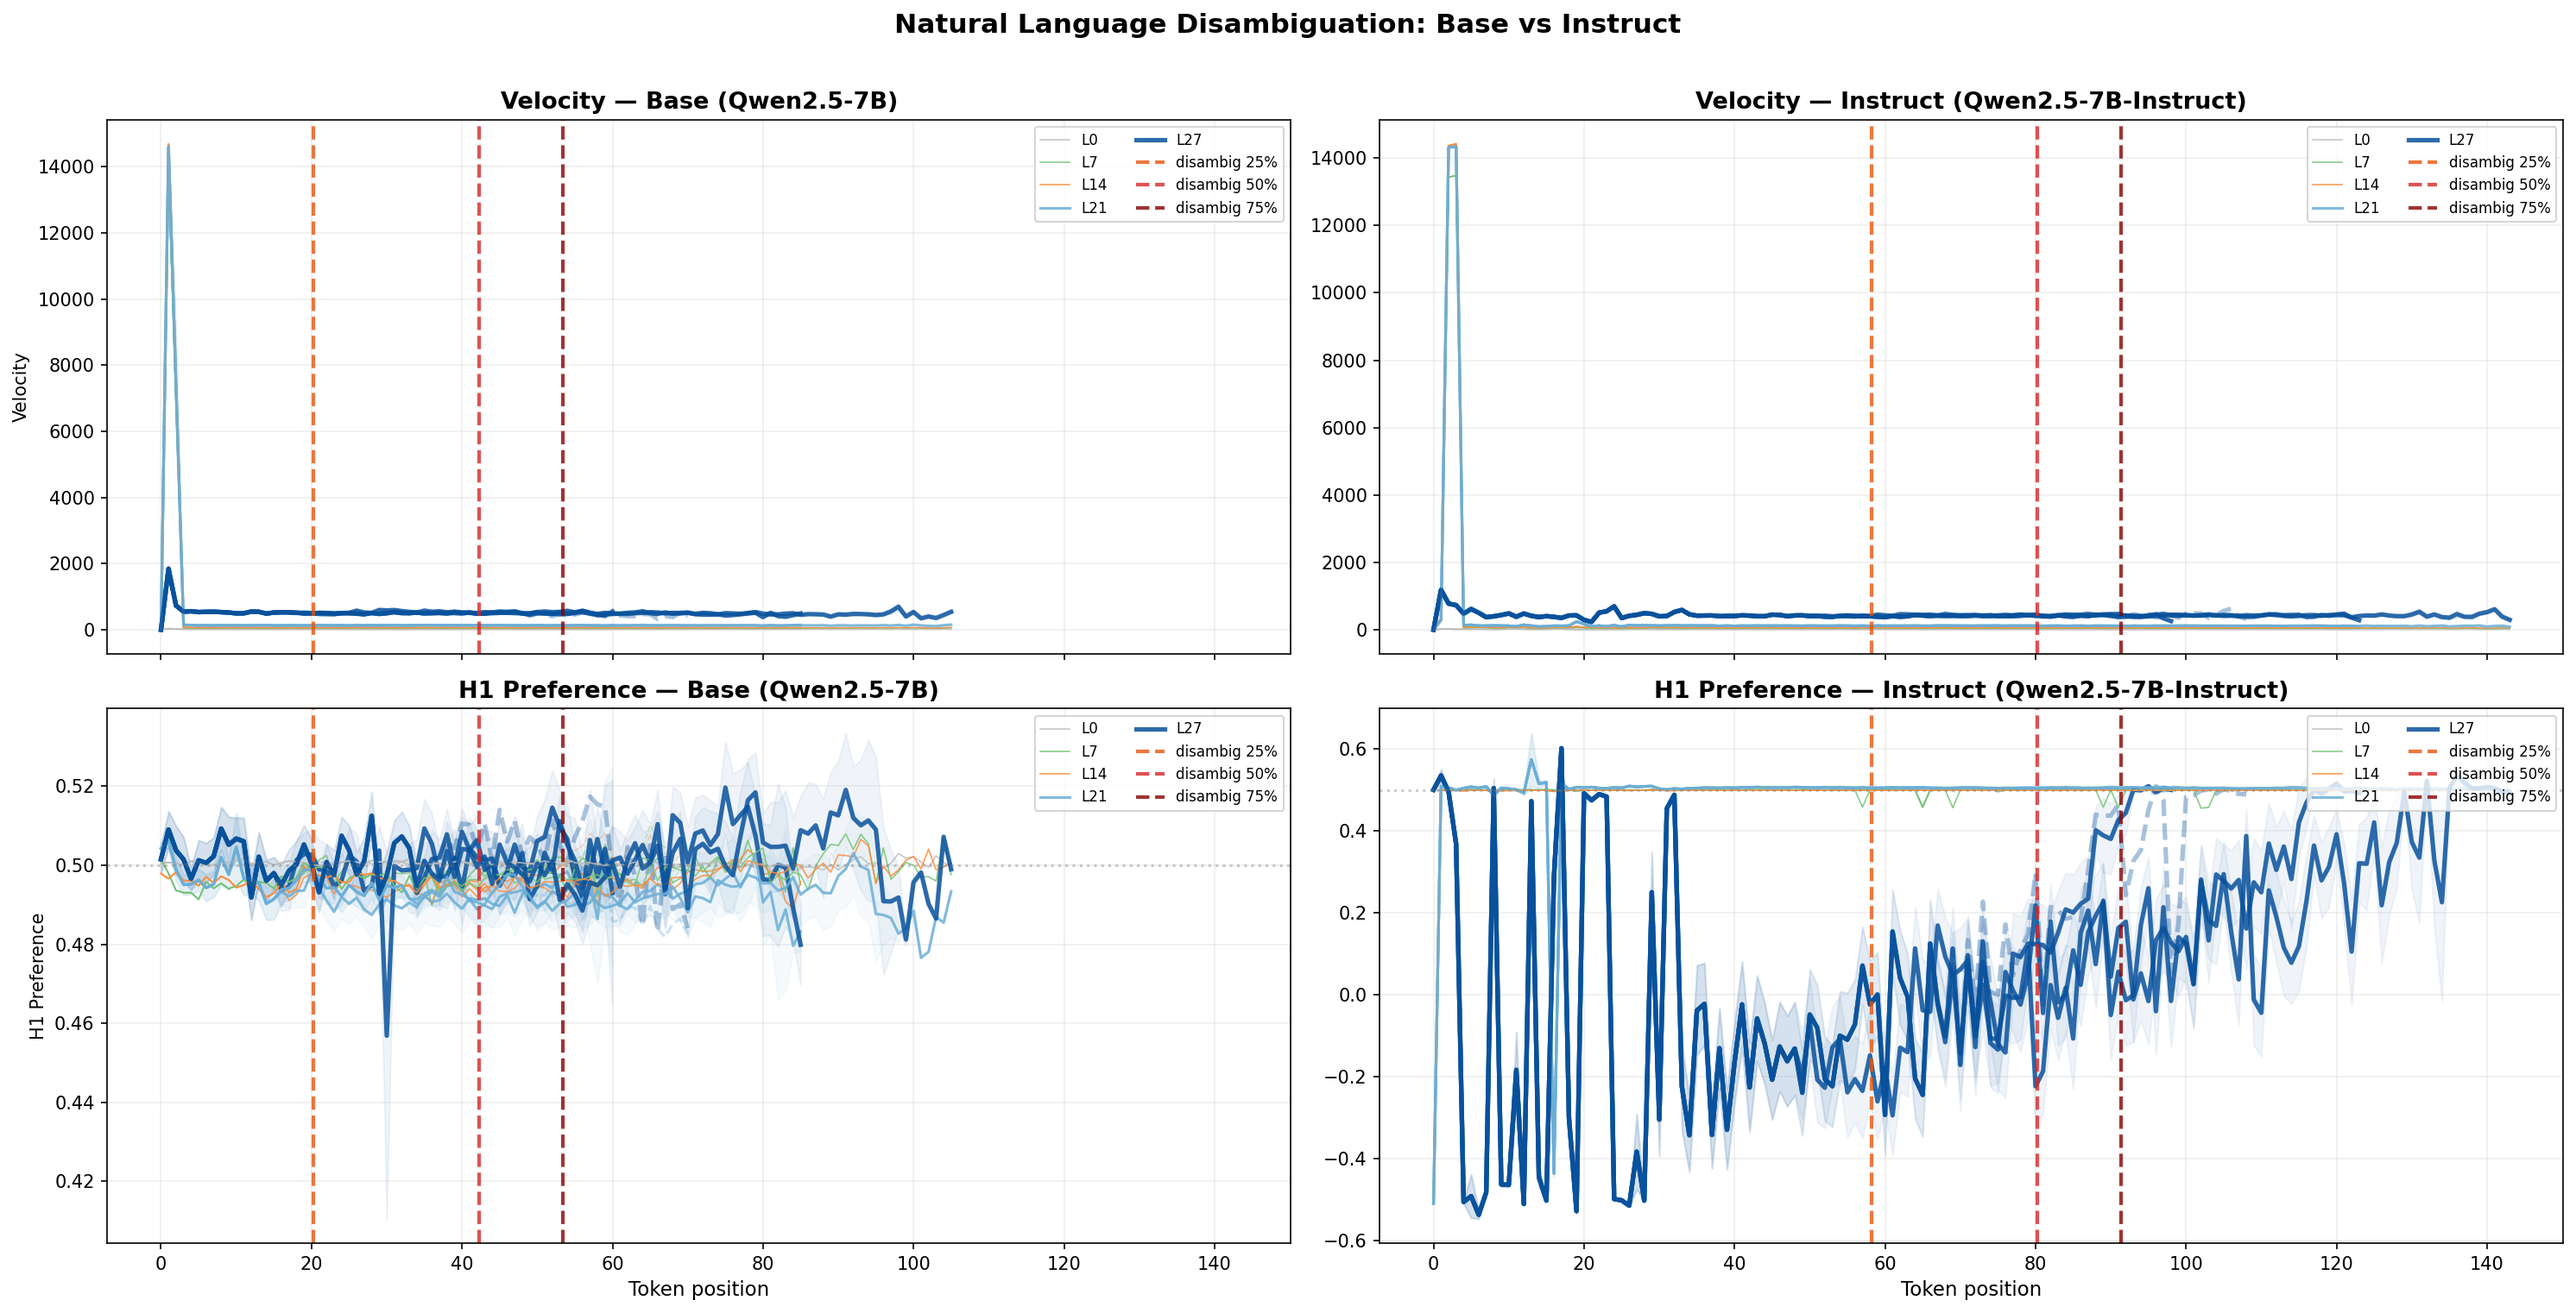
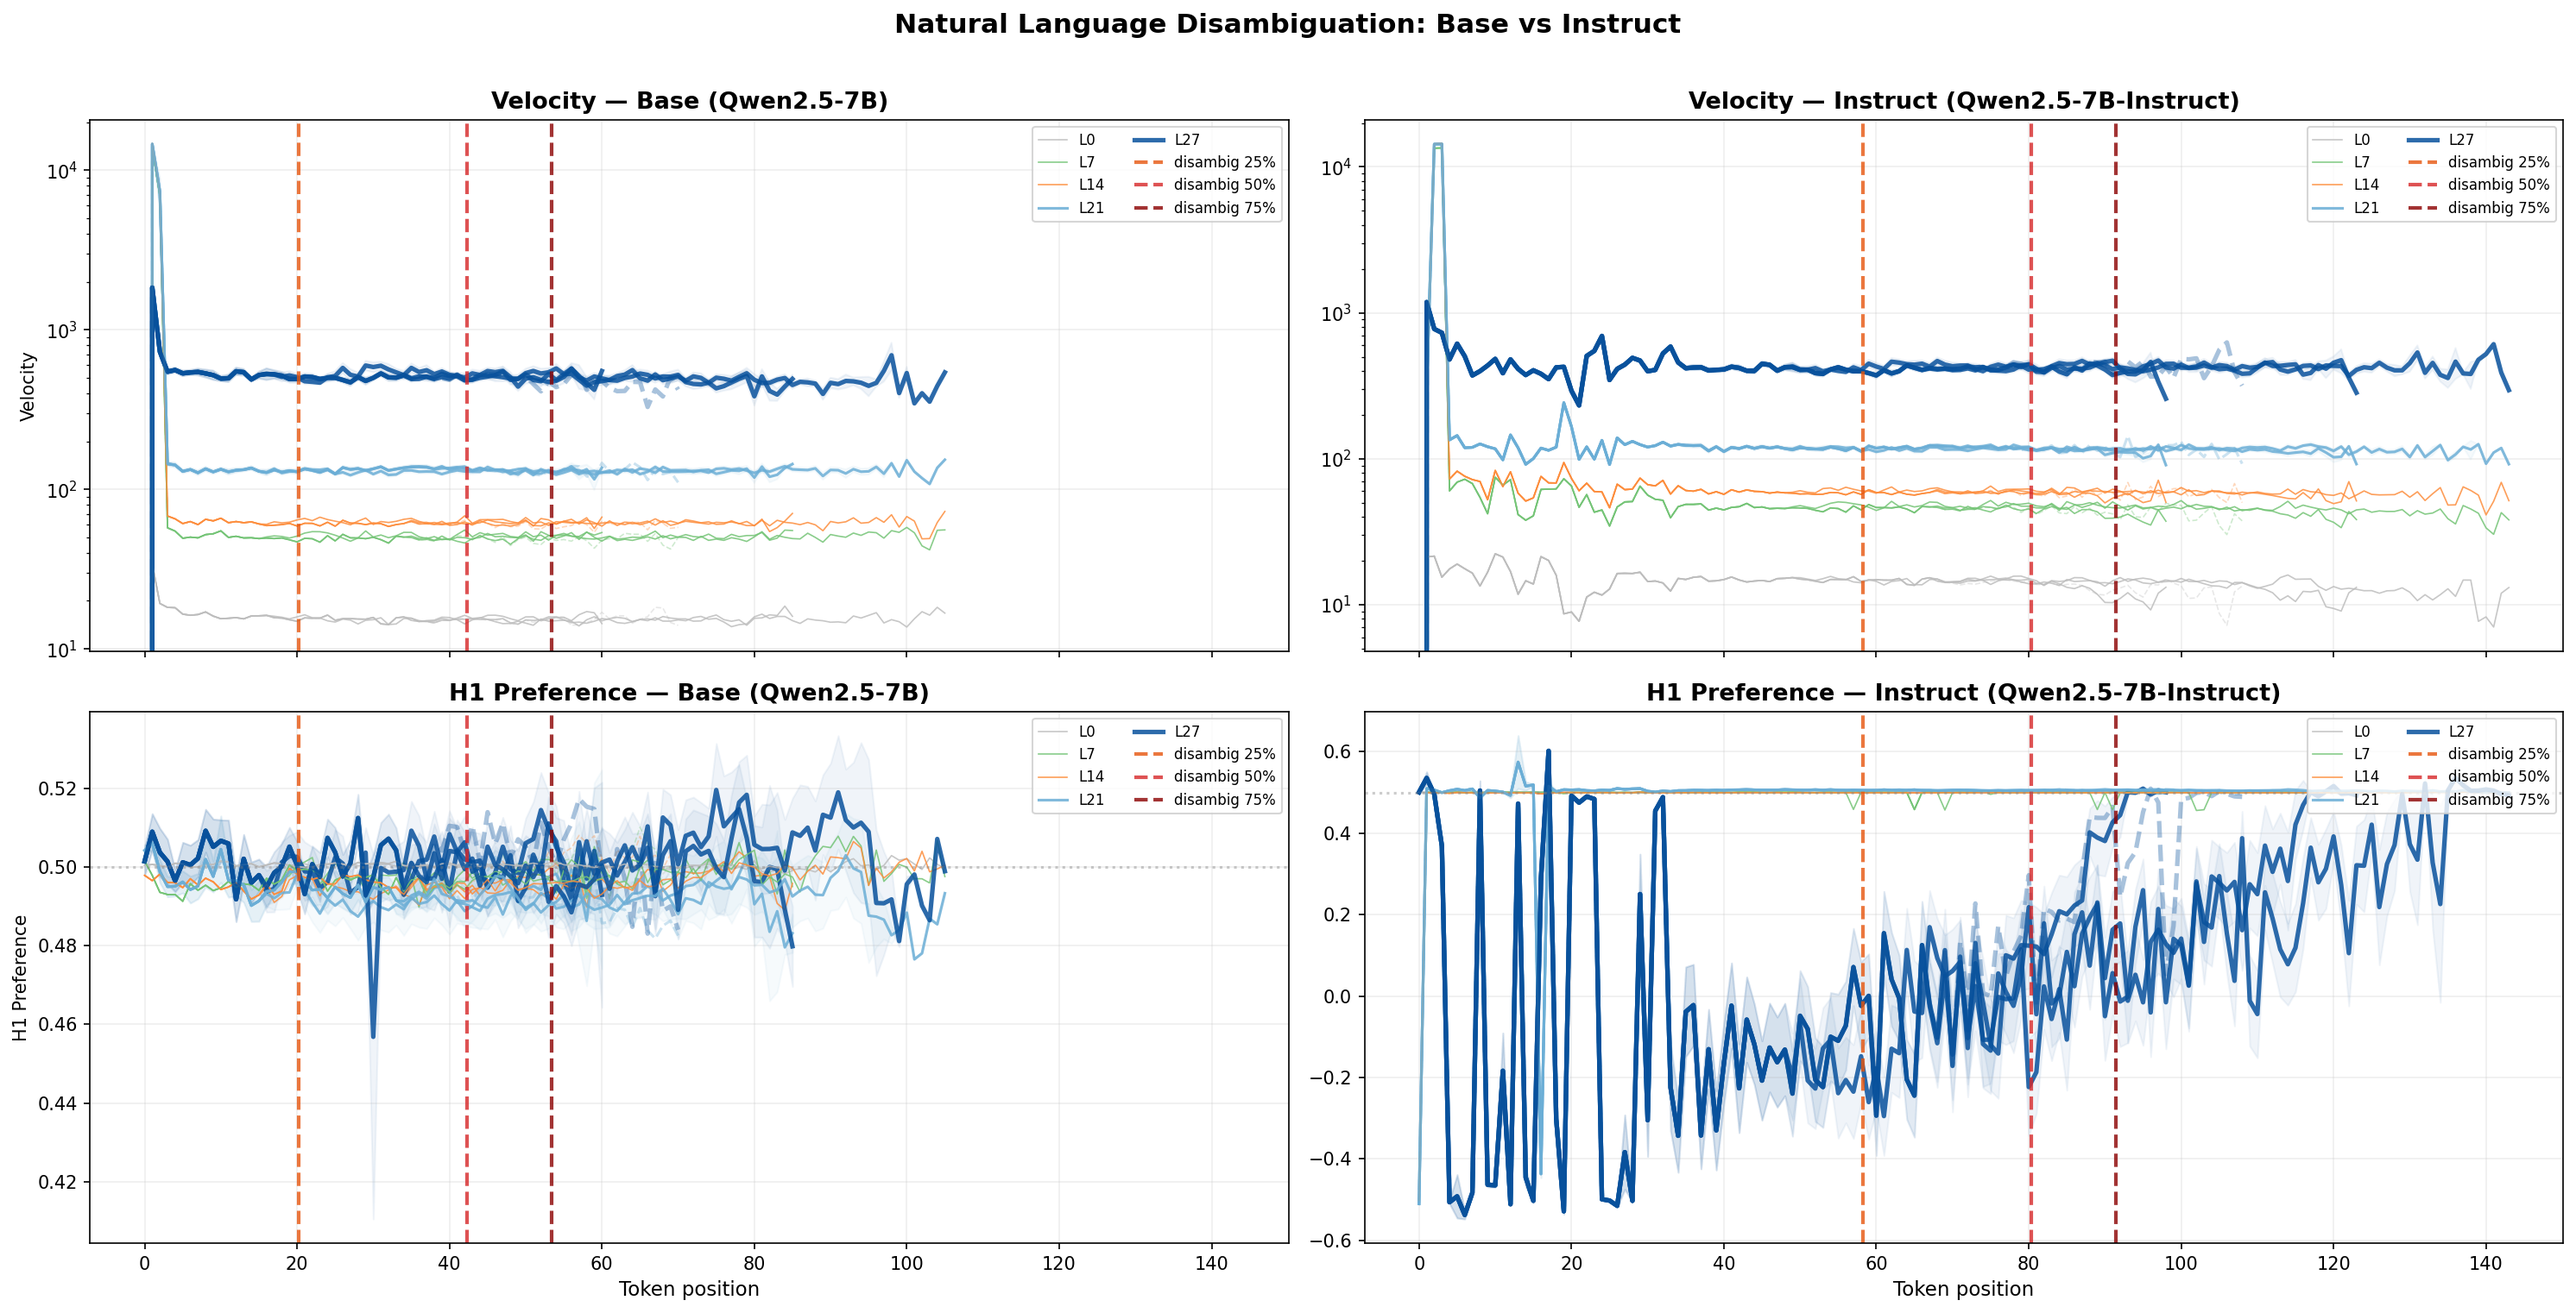
Use log scale for velocity y-axis in combined plots

diff --git a/experiments/plotting/plot_disambig_combined.py b/experiments/plotting/plot_disambig_combined.py
@@ -126,6 +126,7 @@ def plot_combined(results, config, arm_label, output_path):
         ax_vel.axvline(x=mean_pos, color=color, linestyle="--", linewidth=2, alpha=0.8, label=label)
         ax_pref.axvline(x=mean_pos, color=color, linestyle="--", linewidth=2, alpha=0.8, label=label)
 
+    ax_vel.set_yscale("log")
     ax_vel.set_ylabel("Velocity (L2 norm of residual stream change)", fontsize=12)
     ax_vel.set_title(f"Velocity Trajectory — {arm_label}", fontsize=14, fontweight="bold")
     ax_vel.legend(fontsize=9, ncol=2, loc="upper right")
@@ -204,6 +205,7 @@ def plot_base_vs_instruct_combined(results_dir, output_path):
             ax_vel.axvline(x=mean_pos, color=color, linestyle="--", linewidth=2, alpha=0.8, label=label)
             ax_pref.axvline(x=mean_pos, color=color, linestyle="--", linewidth=2, alpha=0.8, label=label)
 
+        ax_vel.set_yscale("log")
         ax_vel.set_title(f"Velocity — {arm_label}", fontsize=13, fontweight="bold")
         ax_vel.set_ylabel("Velocity" if col == 0 else "")
         ax_vel.legend(fontsize=8, ncol=2, loc="upper right")
